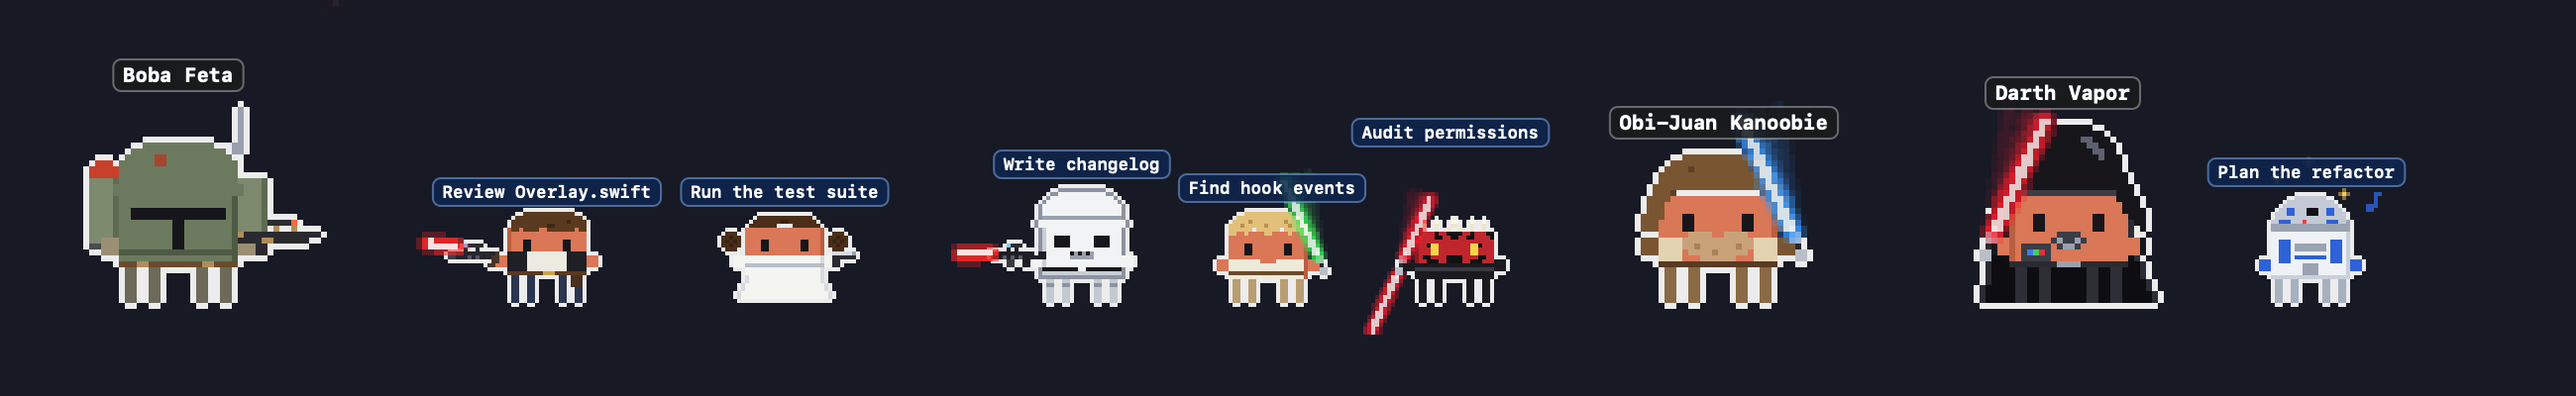
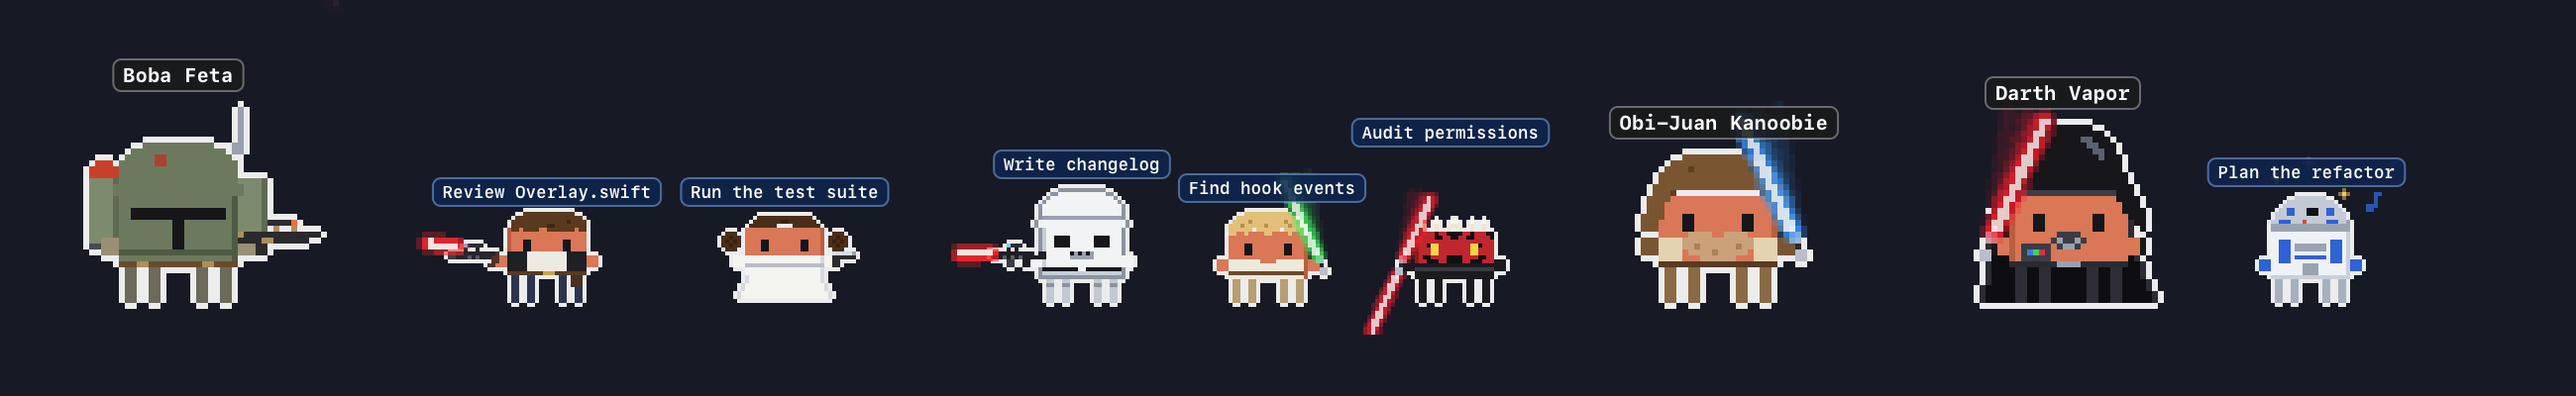
docs: re-render the pictures, and fit long titles on the social previews
Every sheet and screenshot is drawn again from the current code, so the
late design changes (Batclaw Woman's claw mark, Sinistro's lamp, the
Clawwing and the Lance) show. RenderDocs now shrinks a social-preview
title that's too wide: CLAWSTICE LEAGUE: CLAWD WARS ran off both edges.
The Playground's sample prompt says "add a snowtaunt", so screenshots no
longer name the original creature.

diff --git a/Tools/RenderDocs/main.swift b/Tools/RenderDocs/main.swift
@@ -211,9 +211,13 @@ let social = canvas(1280, 640) { ctx in
     ctx.setFillColor(CGColor(red: 0.85, green: 0.47, blue: 0.34, alpha: 1)); ctx.fill(CGRect(x: 0, y: 147, width: 1280, height: 4))
     // title
     let yellow = NSColor(srgbRed: 1, green: 0.91, blue: 0.12, alpha: 1)
-    let titleFont = NSFont(name: "Futura-CondensedExtraBold", size: 80) ?? .systemFont(ofSize: 84, weight: .black)
-    let title = NSAttributedString(string: title, attributes: [.font: titleFont, .foregroundColor: yellow, .kern: 8])
-    title.draw(at: NSPoint(x: (1280 - title.size().width) / 2, y: 470))
+    func titleText(_ size: CGFloat) -> NSAttributedString {
+        let font = NSFont(name: "Futura-CondensedExtraBold", size: size) ?? .systemFont(ofSize: size * 1.05, weight: .black)
+        return NSAttributedString(string: title, attributes: [.font: font, .foregroundColor: yellow, .kern: size / 10])
+    }
+    let fit = min(80, 80 * 1180 / titleText(80).size().width)   // a long name shrinks to fit the width
+    let title = titleText(fit)
+    title.draw(at: NSPoint(x: (1280 - title.size().width) / 2, y: 470 + (80 - fit) / 2))
     let sub = NSAttributedString(string: subtitle,
                                  attributes: [.font: NSFont.systemFont(ofSize: 26, weight: .semibold), .foregroundColor: NSColor(white: 0.9, alpha: 1)])
     sub.draw(at: NSPoint(x: (1280 - sub.size().width) / 2, y: 418))

diff --git a/Sources/App/Overlay.swift b/Sources/App/Overlay.swift
@@ -828,7 +828,7 @@ final class OverlayController: NSObject, NSMenuDelegate, NSApplicationDelegate, 
             return [SessionSnapshot(id: "home", leader: 0, project: "", mood: .idle, agents: crew)]
         }
         // Sample details so the Playground's cards look like live ones.
-        let prompts = ["add a tauntaun", "make the window resize to fit the Claudes", "why does the duel not start?",
+        let prompts = ["add a snowtaunt", "make the window resize to fit the Claudes", "why does the duel not start?",
                        "write a nice README with screenshots", "fix the portrait crop for wide characters"]
         let nowActs = ["Edit WindowMode.swift", "Bash: swift build", "Read Locations.swift", "Grep opaqueBounds", "Agent: Review the diff"]
         // Agents join the first villain. Empty project → the label shows the villain's name.

diff --git a/CHANGELOG.md b/CHANGELOG.md
@@ -26,6 +26,7 @@ Clawd Clash brings Clawd Wars (Star Wars), Avengers: Clawd Wars (Marvel) and Jus
 - **The screen saver vanishing from System Settings' list.** On macOS 14 and later, the list of third-party screen savers comes from a background process (WallpaperLegacyExtension) that remembers what it found. A saver removed and put back while that process ran (a reinstall, an update, a removal) stayed missing from the list, although it was installed in the right place (`~/Library/Screen Savers`). Installing, updating and removing the screen saver now restart that process along with the screen saver host, so the list is rebuilt each time.
 
 ### Changed
+- **Pictures re-rendered after the last design changes.** The rosters, place sheets, desktop strips, social previews, hover card, screen saver and cantina window are drawn again from the current code, so they show Batclaw Woman's claw mark, Sinistro's lamp and the other late changes. The Clawstice League social preview's title now shrinks to fit instead of running off both edges, and the Playground's sample prompt asks for a snowtaunt rather than naming the original creature.
 - **The last bat, lantern and JL marks in Detective Claws.** Batclaw Woman wears a red claw mark instead of the big red bat, like the rest of the Batclaw family, and throws a three-pointed clawarang instead of a batarang. Sinistro's chest carries the yellow lamp emblem of the other Corps, the Lantern memorial in Shore City has a green lamp on its plinth instead of the lantern circle, the Clawwing's wing shows three black claw slashes in its yellow oval, and the Lance's tail fin reads CL instead of JL. The bat on the Batcave's computer screen and the Batmobile's fins stay as they are.
 - **A Settings window, and a shorter menu.** **Settings…** (also ⌘, in the app menu) opens a window with every option in one place, with checkboxes, pop-ups and buttons: General (universe and Random, Dock icon, monochrome menu bar icon, launch at login, **Forget Idle Sessions**), Window Mode, Desktop Mode (size, characters on top, **Reset Position**), the AIs (each with Connect or Remove) and the screen saver. Window and desktop settings show side by side, whichever mode you're in. The right-click and menu bar menu keeps only Show/Hide, the mode, Location, Status Symbols, Settings… and Quit; the universe is picked in Settings.
 - **The Star Wars cast is Clawd Wars' own, ported frame by frame.** All 81 characters were rebuilt on the shared pipeline and checked pixel by pixel against Clawd Wars' drawing code in hundreds of poses each. Star Wars also keeps Clawd Wars' gun handling: no gun raised while waiting or cheering, heroes check their guns without raising them, the flash stays at the resting muzzle, bolts run as they did, and each hero keeps its own practice rhythm (`Persona.soloFire`). The Emperor's crackle is pale blue and white again.
